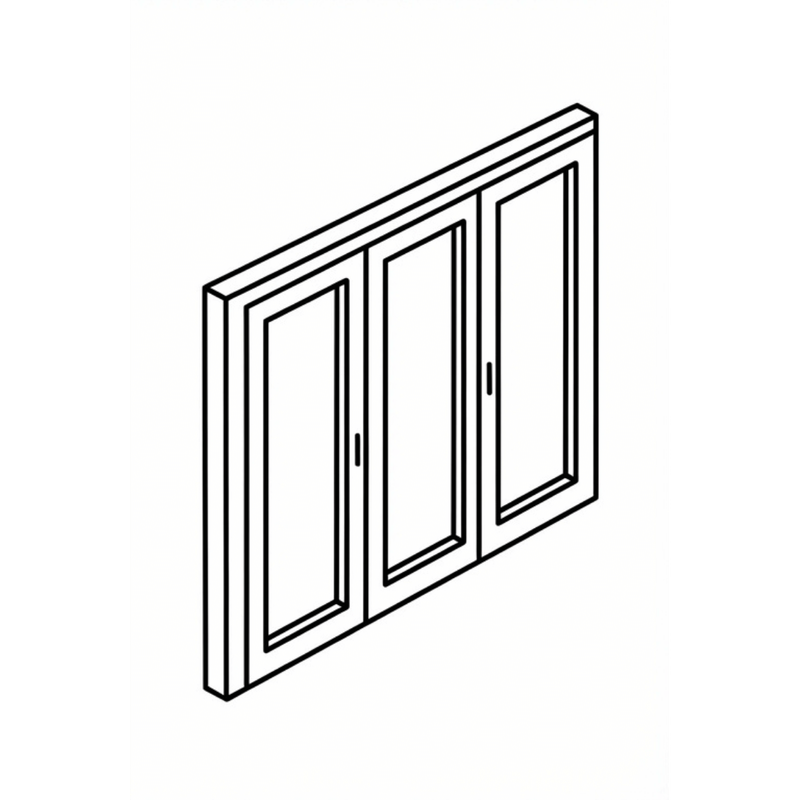
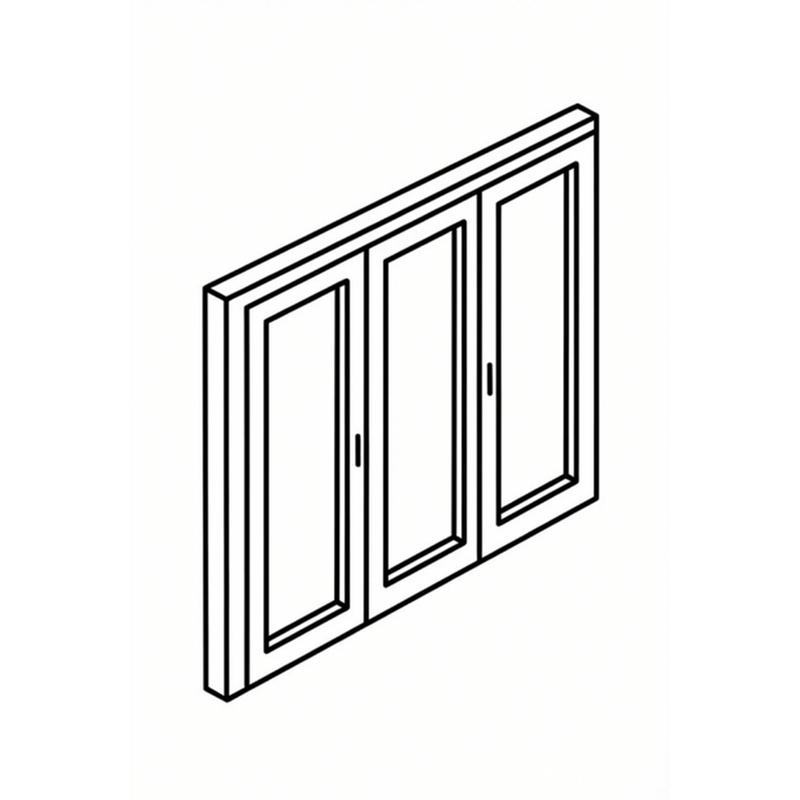
Новый QZ-калькулятор заменил основной, трёхстворчатое увеличено
- QZ-квиз перемещён на место старого calc-c калькулятора
- Сохранены заголовок и кикер
- Удалена превью-секция внизу
- Трёхстворчатое окно увеличено на 25%
- Двери: вопрос «Куда нужна дверь?» → «Какая нужна дверь?»

Changed region(s): [[0.25, 0.125, 0.75, 0.875]]

diff --git a/index.html b/index.html
@@ -526,12 +526,9 @@
         <h2 class="title">Рассчитайте стоимость за 30 секунд</h2>
         <p style="color:var(--muted); font-size:18px; max-width:560px; margin:0 auto;">Ответьте на пару вопросов — и мы подготовим расчёт с точной ценой и условиями рассрочки.</p>
       </div>
-      <div class="calc-c">
-        <div class="calc-c__left" id="calcCapp"></div>
-        <div class="calc-c__right" id="calcCpreview">
-          <div class="calc-c__preview-label">Ваши ответы</div>
-          <div class="calc-c__preview-empty">Выберите вариант слева</div>
-        </div>
+      <div class="qz" id="qzApp">
+        <div class="qz__bar"><div class="qz__bar-fill" id="qzBarFill"></div></div>
+        <div class="qz__body" id="qzBody"></div>
       </div>
     </div>
   </section>
@@ -961,19 +958,6 @@
     </div>
   </div>
 
-  <!-- ====== CALCULATOR V2 — Preview (Alpine.js style) ====== -->
-  <section class="section" style="background:var(--bg); padding:80px 0;">
-    <div class="container">
-      <div style="text-align:center; margin-bottom:40px;">
-        <div class="kicker-center">Новый калькулятор</div>
-        <h2 class="title">Вариант калькулятора</h2>
-      </div>
-      <div class="qz" id="qzApp">
-        <div class="qz__bar"><div class="qz__bar-fill" id="qzBarFill"></div></div>
-        <div class="qz__body" id="qzBody"></div>
-      </div>
-    </div>
-  </section>
 
   <style>
     .qz {
@@ -1174,7 +1158,7 @@
           {value:'П-образный',label:'П-образный',icon:'<img src="assets/img/пнг для калькулятора/П - образный балкон.png" alt="П-образный">'},
           {value:'Z-образный',label:'Z-образный',icon:'<img src="assets/img/пнг для калькулятора/Z - образный балкон.png" alt="Z-образный">'}
         ]}],
-        doors:[{key:'place', title:'2. Куда нужна дверь?', options:[
+        doors:[{key:'place', title:'2. Какая нужна дверь?', options:[
           {value:'Панорамная',label:'Панорамная',icon:'<img src="assets/img/пнг для калькулятора/Панорамная ПВХ-дверь.png" alt="Панорамная">'},
           {value:'Комбинированная',label:'Комбинированная',icon:'<img src="assets/img/пнг для калькулятора/Комбинированная ПВХ-дверь.png" alt="Комбинированная">'},
           {value:'Со сложной раскладкой',label:'Со сложной раскладкой',icon:'<img src="assets/img/пнг для калькулятора/ПВХ-дверь со сложной раскладкой.png" alt="Со сложной раскладкой">'}
@@ -1707,7 +1691,7 @@
       ],
       balconyBlock:[{key:'layout',title:'Расположение двери?',options:[{value:'Дверь слева',label:'Дверь слева'},{value:'Чебурашка',label:'Дверь по центру'},{value:'Дверь справа',label:'Дверь справа'}]}],
       balconyWindows:[{key:'shape',title:'Форма балкона?',options:[{value:'Прямой',label:'Прямой'},{value:'Угловой',label:'Угловой'},{value:'П-образный',label:'П-образный'}]}],
-      doors:[{key:'place',title:'Куда нужна дверь?',options:[{value:'Улица',label:'На улицу'},{value:'Балкон',label:'На балкон'},{value:'Внутри',label:'Внутри помещения'}]}]
+      doors:[{key:'place',title:'Какая нужна дверь?',options:[{value:'Панорамная',label:'Панорамная'},{value:'Комбинированная',label:'Комбинированная'},{value:'Со сложной раскладкой',label:'Со сложной раскладкой'}]}]
     }
   };
   function branch(p){return p?Q.branches[p]||[]:[]}
